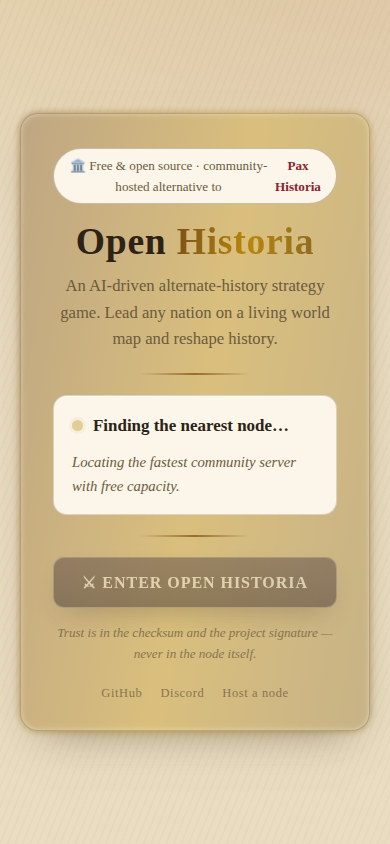
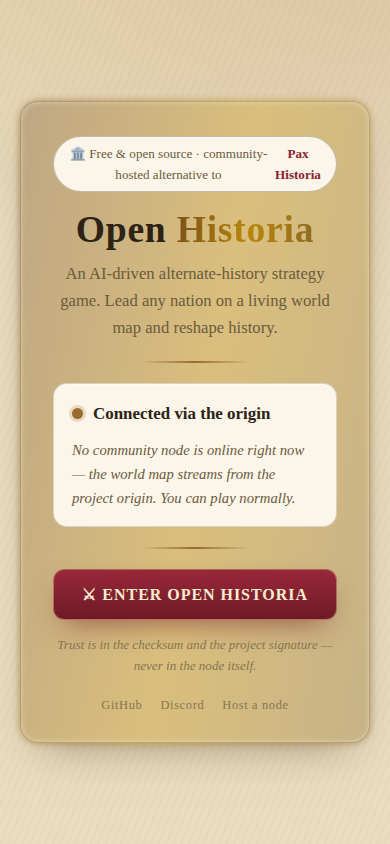
refonte : les six cahiers de la maquette journal
François tranche pour la maquette journal plutôt que pour la note explicative :
six cahiers, dans son ordre — Édition du tour, Ordres, Registre, Collège,
Caisses, Correspondance.

Ce n'est pas qu'un renommage. Les ordres et le registre vivaient dans la
colonne droite de l'édition ; la maquette leur donne une page, ils en sortent
(cahiers.jsx). Rien n'est réécrit au passage : ce sont les mêmes composants,
montés dans le cadre commun des pages. Un cahier qui redessinerait son contenu
finirait par diverger de l'édition, et le registre est précisément l'endroit où
ce jeu promet de ne pas se contredire.

Le conseiller n'est plus un cahier. La maquette en fait un bouton du bloc
d'ordre — on le consulte sur un geste précis, on ne va pas « dans » lui. Il
reste atteignable depuis les ordres et depuis son onglet dans les caisses.

Deux défauts que le gabarit mobile a révélés, et que seule une capture pouvait
montrer :

- Six cahiers, le nom du journal, la date et le bouton du tour ne tiennent pas
  dans 390 px. Le bandeau de la barre s'efface à l'étroit — il répète ce que le
  bandeau du journal dit juste dessous — et le bouton garde sa place sans sa
  date : c'est le geste qui doit tenir, pas la glose.
- Centrer un rail qui déborde rend son DÉBUT inatteignable : le contenu sort
  des deux côtés et le défilement ne peut pas remonter avant le bord gauche.
  Les deux premiers cahiers étaient perdus pour un joueur sur téléphone. Le
[…]

Changed region(s): [[0.0308, 0.0924, 0.9538, 0.8934]]

diff --git a/src/Game/GameUI/main.jsx b/src/Game/GameUI/main.jsx
@@ -14,6 +14,7 @@ import { HAS_MAP, HOME_SECTION } from "../../runtime/edition.js";
 import { Search } from "./search";
 import { ForcesPanel } from "./forces";
 import { Bulletin } from "./bulletin.jsx";
+import { Ordres, Registre } from "./cahiers.jsx";
 import { nextEdition } from "../../runtime/nextEdition.js";
 import { readActionsState, readGameData, readWorldState } from "../../runtime/gameState.js";
 import {
@@ -81,13 +82,21 @@ const checkWebGL = () => {
 // whose offline safety net (public/lang) is generated by hand and had gone six
 // days stale — so the game published to Vercel opened half in English. French
 // here needs no model, no key and no regenerated pack.
+// Les six cahiers de la maquette journal, dans son ordre. Les ordres et le
+// registre étaient des blocs de la colonne droite de l'édition ; ils en sortent
+// (cahiers.jsx) parce que la maquette leur donne une page.
+//
+// Le conseiller n'est plus un cahier : la maquette en fait un bouton du bloc
+// d'ordre — on le consulte sur un geste précis, on ne va pas « dans » lui. Il
+// reste atteignable depuis les ordres et depuis son onglet dans les caisses.
 const SECTIONS = [
-  ["bulletin", "Édition du jour"],
-  ["messages", "Lettres"],
+  ["bulletin", "Édition du tour"],
+  ["orders", "Ordres"],
+  ["register", "Registre"],
   // The room that decides, drawn seat by seat, and the place to argue with it.
   ["college", "Collège"],
-  ["advisor", "Conseiller"],
-  ["stats", "Finances"],
+  ["stats", "Caisses"],
+  ["messages", "Correspondance"],
   // The atlas, in the edition that has one (runtime/edition.js). The Holy See
   // game is played in the paper, and its polity owns half a square kilometre.
   ...(HAS_MAP ? [["map", "Carte"]] : []),
@@ -178,6 +187,7 @@ const ViewTabs = ({ current, onSelect }) => {
     >
       {/* Le bandeau du journal : son nom, et le jour qu'on est en train de jouer. */}
       <span
+        className="oh-barre-titre"
         style={{
           color: "var(--oh-text-strong)",
           fontFamily: "var(--oh-font-display)",
@@ -190,12 +200,12 @@ const ViewTabs = ({ current, onSelect }) => {
         Saint-Siège
       </span>
       {aujourdhui && aujourdhui.isValid() && (
-        <span style={{ borderLeft: "1px solid var(--oh-line)", color: "var(--oh-text-dim)", fontSize: "var(--oh-t-xs)", marginLeft: "0.2rem", paddingLeft: "0.7rem", whiteSpace: "nowrap" }}>
+        <span className="oh-barre-titre" style={{ borderLeft: "1px solid var(--oh-line)", color: "var(--oh-text-dim)", fontSize: "var(--oh-t-xs)", marginLeft: "0.2rem", paddingLeft: "0.7rem", whiteSpace: "nowrap" }}>
           {aujourdhui.format("D MMMM YYYY")}
         </span>
       )}
 
-      <div style={{ display: "flex", flex: 1, gap: "0.2rem", justifyContent: "center", overflowX: "auto" }}>
+      <div className="oh-barre-cahiers" style={{ display: "flex", flex: 1, gap: "0.2rem", justifyContent: "center", overflowX: "auto" }}>
         {SECTIONS.map(([id, label]) => cahier(id, label))}
       </div>
 
@@ -221,6 +231,7 @@ const ViewTabs = ({ current, onSelect }) => {
       </button>
       {dateArrivee && (
         <span
+          className="oh-barre-arrivee"
           style={{
             background: "var(--oh-line-strong)",
             color: "var(--oh-on-accent)",
@@ -432,6 +443,8 @@ const Main = ({
 
   const onBulletin = section === "bulletin";
   const onMessages = section === "messages";
+  const onOrdres = section === "orders";
+  const onRegistre = section === "register";
   // Which page of the paper is showing. The adviser and the ledger are the same
   // panel under two tabs; the map is the section with nothing open on top of it.
   const onCollege = section === "college";
@@ -439,6 +452,10 @@ const Main = ({
     ? "bulletin"
     : onMessages
     ? "messages"
+    : onOrdres
+    ? "orders"
+    : onRegistre
+    ? "register"
     : onCollege
     ? "college"
     : isAdvisorOpen
@@ -446,7 +463,7 @@ const Main = ({
       : HOME_SECTION;
   // A section of the paper takes the page; the old right-hand drawer is what the
   // adviser is when the map is showing under it.
-  const advisorIsSection = isAdvisorOpen && !onBulletin && !onCollege;
+  const advisorIsSection = isAdvisorOpen && !onBulletin && !onCollege && !onOrdres && !onRegistre;
   const rightShift = isAdvisorOpen ?`calc(${advisorWidth}px + 0.5rem)` : "0.5rem";
   const toggleBottomPanel = useCallback((panelName) => {
     setActiveBottomPanel((currentPanel) => (
@@ -489,6 +506,8 @@ const Main = ({
       {onBulletin && (
         <Bulletin onOpenAdvisor={openAdvisor} pressFocus={pressFocus} />
       )}
+      {onOrdres && <Ordres onOpenAdvisor={openAdvisor} />}
+      {onRegistre && <Registre />}
       {section === "college" && <College />}
       <ViewTabs current={currentSection} onSelect={selectSection} />
       <LibraryTopBar />
@@ -502,7 +521,7 @@ const Main = ({
       />
       {/* While the bulletin holds the page, the round floating buttons would
           print on top of it. They belong to the map view. */}
-      {!onBulletin && !onMessages && (
+      {!onBulletin && !onMessages && !onOrdres && !onRegistre && (
         <>
           <Toolbar
             onOpenAdvisor={openAdvisor}

diff --git a/src/Game/GameUI/cahiers.jsx b/src/Game/GameUI/cahiers.jsx
@@ -1,0 +1,72 @@
+/* Les cahiers que la maquette journal détache de l'édition.
+ *
+ * La proposition de la session de design compte six cahiers : l'édition du
+ * tour, les ordres, le registre, le collège, les caisses, la correspondance.
+ * Les ordres et le registre vivaient jusqu'ici dans la colonne de droite de
+ * l'édition ; ils en sortent pour devenir des pages à part entière.
+ *
+ * Rien n'est réécrit au passage : ce sont les mêmes composants, montés dans le
+ * cadre commun des pages. Un cahier qui redessinerait son contenu finirait par
+ * diverger de l'édition, et le registre est précisément l'endroit où le jeu
+ * promet de ne pas se contredire.
+ */
+import React, { useEffect, useState } from "react";
+import { readGameData, readWorldState } from "../../runtime/gameState.js";
+import { ActionsPanel } from "./actions.jsx";
+import { Record } from "./bulletin.jsx";
+import { CONTENU_TOP } from "./chrome.js";
+
+/** Le cadre d'un cahier : même surface, même géométrie que l'édition. */
+const Feuille = ({ surface, children }) => (
+  <div
+    data-surface={surface}
+    style={{
+      background: "var(--oh-plate)",
+      bottom: 0,
+      color: "var(--oh-text)",
+      left: 0,
+      overflowY: "auto",
+      position: "fixed",
+      right: 0,
+      top: CONTENU_TOP,
+      zIndex: 10002,
+    }}
+  >
+    <div style={{ margin: "0 auto", maxWidth: "74rem", padding: "1.6rem 1.5rem 3rem" }}>{children}</div>
+  </div>
+);
+
+/** Les ordres : ce qu'on verse au dossier, et ce que le moteur en a jugé. */
+export const Ordres = ({ onOpenAdvisor }) => (
+  <Feuille surface="press">
+    <ActionsPanel embedded isOpen onClose={() => {}} onOpenAdvisor={onOpenAdvisor} />
+  </Feuille>
+);
+
+/** Le registre : les lignes que le moteur a écrites, et rien d'autre. */
+export const Registre = () => {
+  const [game, setGame] = useState(null);
+  const [world, setWorld] = useState(null);
+
+  useEffect(() => {
+    let vivant = true;
+    Promise.all([
+      readGameData().catch(() => null),
+      readWorldState({ force: true }).catch(() => null),
+    ]).then(([g, w]) => {
+      if (!vivant) return;
+      setGame(g);
+      setWorld(w);
+    });
+    return () => { vivant = false; };
+  }, []);
+
+  const player = game?.country || "";
+  const usdPerSY = Number(player ? world?.economies?.[player]?.usdPerSY : 0) || 0;
+
+  return (
+    <Feuille surface="press">
+      <Record record={world?.record} treasuries={world?.treasuries} player={player} usdPerSY={usdPerSY} />
+    </Feuille>
+  );
+};

diff --git a/src/theme.css b/src/theme.css
@@ -506,3 +506,24 @@ button, input, textarea, select {
 [data-surface="ledger"] {
   font-variant-numeric: tabular-nums;
 }
+
+/* ─── La barre commune et le bandeau, à l'étroit ────────────────────────────
+   Six cahiers, le nom du journal, la date et le bouton du tour ne tiennent pas
+   dans 390 px. Sur un écran étroit le bandeau de barre s'efface — il répète ce
+   que le bandeau du journal dit juste dessous — et les cahiers gardent la place.
+   Le bouton reste, sans sa date : c'est le geste, pas la glose, qui doit tenir. */
+@media (max-width: 40rem) {
+  .oh-barre-titre { display: none; }
+  .oh-barre-arrivee { display: none; }
+
+  /* Le bandeau du journal passe sur une colonne, centré, plutôt que de sortir
+     de la feuille par la droite. */
+  .oh-masthead { grid-template-columns: minmax(0, 1fr) !important; }
+  .oh-masthead-flank { text-align: center !important; }
+
+  /* Centrer un rail qui déborde rend son DÉBUT inatteignable : le contenu
+     sort des deux côtés et le défilement ne peut pas remonter avant le bord
+     gauche. Les deux premiers cahiers étaient perdus pour un joueur sur
+     téléphone. À l'étroit, le rail commence au bord et défile normalement. */
+  .oh-barre-cahiers { justify-content: flex-start !important; }
+}

diff --git a/src/Game/GameUI/bulletin.jsx b/src/Game/GameUI/bulletin.jsx
@@ -1014,7 +1014,7 @@ const Bulletin = ({ onOpenAdvisor, pressFocus = 0 }) => {
             droite. Un journal se reconnaît à son bandeau avant qu'on l'ait lu ;
             l'ancien n'avait qu'un titre et n'en était pas un. */}
         <header style={{ borderBottom: "3px solid var(--oh-text-strong)", paddingBottom: "0.55rem" }}>
-        <div style={{ alignItems: "end", display: "grid", gap: "1rem", gridTemplateColumns: "1fr auto 1fr" }}>
+        <div className="oh-masthead" style={{ alignItems: "end", display: "grid", gap: "1rem", gridTemplateColumns: "1fr auto 1fr" }}>
         <div className="oh-masthead-flank" style={{ color: "var(--oh-text-dim)", fontSize: "var(--oh-t-2xs)", lineHeight: 1.5 }}>
         <div className="oh-label" style={{ color: "var(--oh-text-strong)" }}>
         N° {game?.round || 1} · An {anDuPontificat} du pontificat
@@ -1263,5 +1263,5 @@ const Bulletin = ({ onOpenAdvisor, pressFocus = 0 }) => {
     );
 };
 
-export { Bulletin };
+export { Bulletin, Record };
 export default Bulletin;

diff --git a/design/rendu/mobile/INDEX.md b/design/rendu/mobile/INDEX.md
@@ -1,25 +1,26 @@
 # Rendu réel — mobile (390×844)
 
-Capturé le 2026-09-11 06:34 · commit 70bce59 · source http://localhost:4173
+Capturé le 2026-09-11 07:10 · commit 7ddcede · source http://localhost:4173
 
 Ces images sont le rendu réel du jeu dans un navigateur, pas une maquette.
 Une session sans navigateur (Claude Design) doit les lire avant de juger le graphisme.
 
 ## Écrans
 
-- `01-portail.png` — capturé, 140 Ko
+- `01-portail.png` — capturé, 141 Ko
 - `02-cle-api.png` — capturé, 88 Ko
 - `03-accueil.png` — capturé, 473 Ko
 - `04-bibliotheque-parties.png` — capturé, 236 Ko
 - `05-bibliotheque-scenarios.png` — capturé, 232 Ko
-- `06-habemus-papam.png` — capturé, 88 Ko
-- `07-courrier.png` — capturé, 65 Ko
-- `08-bulletin.png` — capturé, 68 Ko
-- `09-college.png` — capturé, 145 Ko
-- `10-conseiller.png` — capturé, 24 Ko
-- `11-comptes.png` — capturé, 94 Ko
+- `06-habemus-papam.png` — capturé, 87 Ko
+- `07-edition-du-tour.png` — capturé, 71 Ko
+- `08-ordres.png` — capturé, 50 Ko
+- `09-registre.png` — capturé, 30 Ko
+- `10-college.png` — capturé, 140 Ko
+- `11-caisses.png` — capturé, 96 Ko
+- `12-correspondance.png` — capturé, 70 Ko
 
-Total du lot : 1651 Ko.
+Total du lot : 1714 Ko.
 
 ## Polices
 

diff --git a/design/rendu/bureau/INDEX.md b/design/rendu/bureau/INDEX.md
@@ -1,6 +1,6 @@
 # Rendu réel — bureau (1440×900)
 
-Capturé le 2026-09-11 06:54 · commit 1568155 · source http://localhost:4173
+Capturé le 2026-09-11 07:02 · commit 7ddcede · source http://localhost:4173
 
 Ces images sont le rendu réel du jeu dans un navigateur, pas une maquette.
 Une session sans navigateur (Claude Design) doit les lire avant de juger le graphisme.
@@ -12,14 +12,15 @@ Une session sans navigateur (Claude Design) doit les lire avant de juger le grap
 - `03-accueil.jpg` — capturé, 246 Ko
 - `04-bibliotheque-parties.jpg` — capturé, 89 Ko
 - `05-bibliotheque-scenarios.jpg` — capturé, 78 Ko
-- `06-habemus-papam.png` — capturé, 225 Ko
-- `07-edition-du-jour.png` — capturé, 139 Ko
-- `08-lettres.png` — capturé, 98 Ko
-- `09-college.png` — capturé, 386 Ko
-- `10-conseiller.png` — capturé, 53 Ko
-- `11-finances.png` — capturé, 192 Ko
+- `06-habemus-papam.png` — capturé, 226 Ko
+- `07-edition-du-tour.png` — capturé, 140 Ko
+- `08-ordres.png` — capturé, 75 Ko
+- `09-registre.png` — capturé, 54 Ko
+- `10-college.png` — capturé, 387 Ko
+- `11-caisses.png` — capturé, 194 Ko
+- `12-correspondance.png` — capturé, 100 Ko
 
-Total du lot : 2009 Ko.
+Total du lot : 2091 Ko.
 
 ## Polices
 
